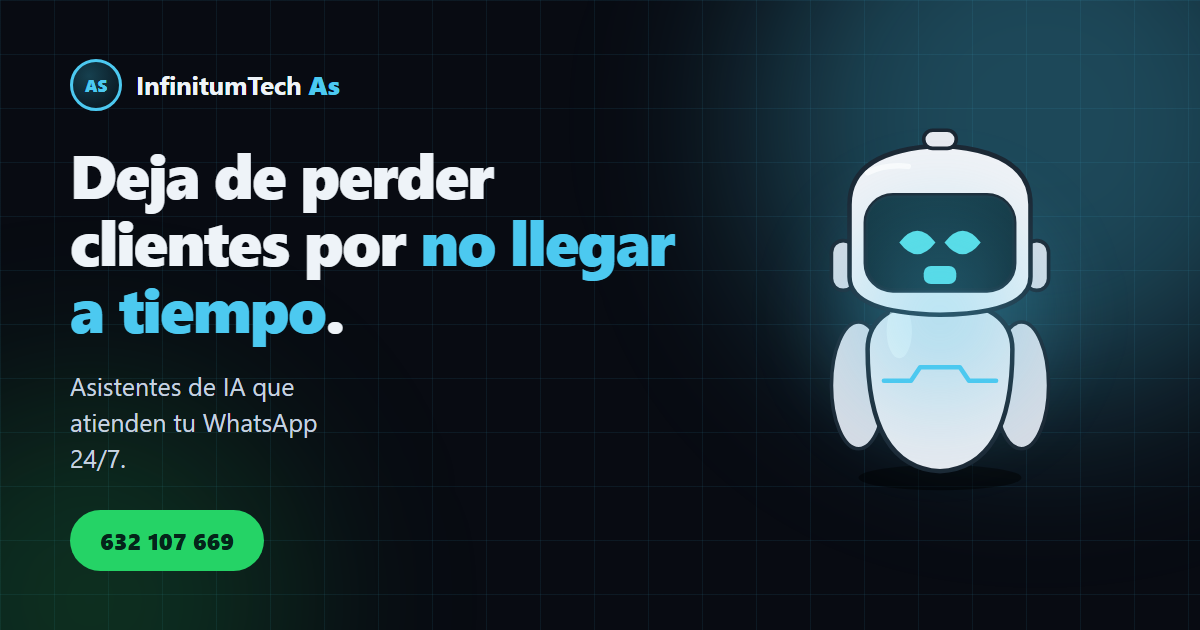
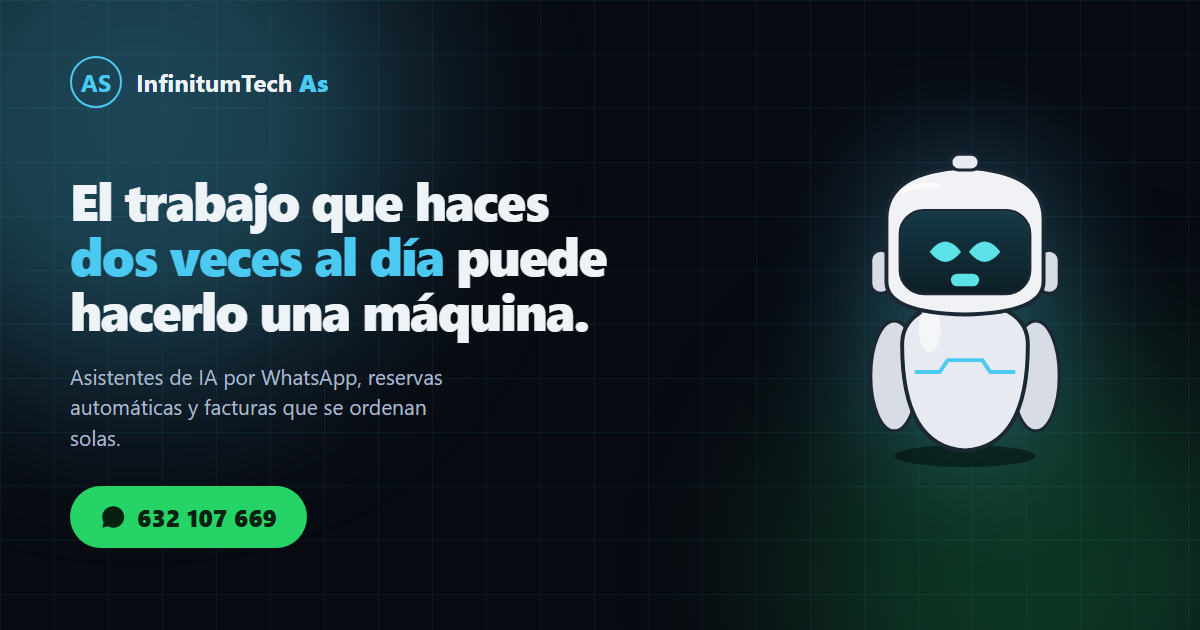
Portada social y metadatos al dia con el mensaje nuevo
Lo que se ve al pegar el enlace en redes o WhatsApp seguia con el discurso
viejo de hosteleria ("Deja de perder clientes por no llegar a tiempo") y en
tono personal, sin coincidir con la web.

- portada-social.png regenerada con el titular nuevo y el robot de la web.
  El HTML que la produce queda en rediseno/portada-social.html.
- og:title, og:description, twitter:* y la meta description reescritos en
  tono de empresa y ampliados mas alla de las reservas.

diff --git a/index.html b/index.html
@@ -3,26 +3,26 @@
 <head>
 <meta charset="UTF-8">
 <meta name="viewport" content="width=device-width, initial-scale=1">
-<meta name="description" content="Asistentes de inteligencia artificial que atienden por WhatsApp, gestionan reservas y ordenan tus facturas. Instalación y mantenimiento incluidos. Sevilla.">
+<meta name="description" content="Automatizamos los procesos que repites cada semana: asistentes de IA por WhatsApp, reservas automáticas y facturas que se ordenan solas. Implantación y mantenimiento incluidos. Sevilla.">
 <meta name="theme-color" content="#080B12">
 <meta name="tiktok-developers-site-verification" content="bAWgu2qeMTwVCYFpBxi0az0utko0FpaP" />
 <meta name="referrer" content="strict-origin-when-cross-origin">
 <!-- Seguridad: la web no ejecuta ni un solo script y solo carga recursos propios.
      Si alguien lograra inyectar código, el navegador lo bloquearía igualmente. -->
 <meta http-equiv="Content-Security-Policy" content="default-src 'none'; script-src 'self'; style-src 'self'; img-src 'self' data:; font-src 'self'; form-action 'none'; base-uri 'none'; connect-src 'none'">
-<meta property="og:title" content="InfinitumTech As — Automatización con IA para tu negocio">
-<meta property="og:description" content="Deja de perder clientes por no llegar a tiempo al teléfono.">
+<meta property="og:title" content="InfinitumTech As — Automatizamos los procesos que te comen el día">
+<meta property="og:description" content="El trabajo que haces dos veces al día puede hacerlo una máquina.">
 <meta property="og:type" content="website">
 <meta property="og:url" content="https://www.aminautomation.com/">
 <meta property="og:locale" content="es_ES">
 <meta property="og:image" content="https://www.aminautomation.com/portada-social.png">
 <meta property="og:image:width" content="1200">
 <meta property="og:image:height" content="630">
-<meta property="og:image:alt" content="InfinitumTech As — Deja de perder clientes por no llegar a tiempo">
+<meta property="og:image:alt" content="InfinitumTech As — El trabajo que haces dos veces al día puede hacerlo una máquina">
 <meta property="og:site_name" content="InfinitumTech As">
 <meta name="twitter:card" content="summary_large_image">
-<meta name="twitter:title" content="InfinitumTech As — Automatización con IA para tu negocio">
-<meta name="twitter:description" content="Deja de perder clientes por no llegar a tiempo al teléfono.">
+<meta name="twitter:title" content="InfinitumTech As — Automatizamos los procesos que te comen el día">
+<meta name="twitter:description" content="El trabajo que haces dos veces al día puede hacerlo una máquina.">
 <meta name="twitter:image" content="https://www.aminautomation.com/portada-social.png">
 <title>InfinitumTech As — Asistentes de IA por WhatsApp para tu negocio</title>
 <link rel="icon" href="favicon.svg" type="image/svg+xml">
